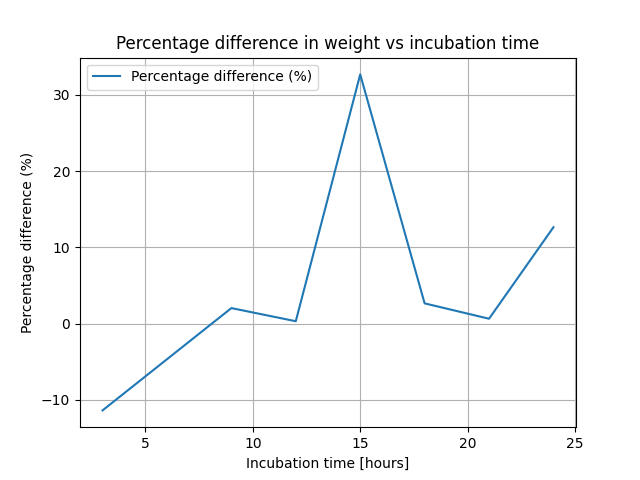
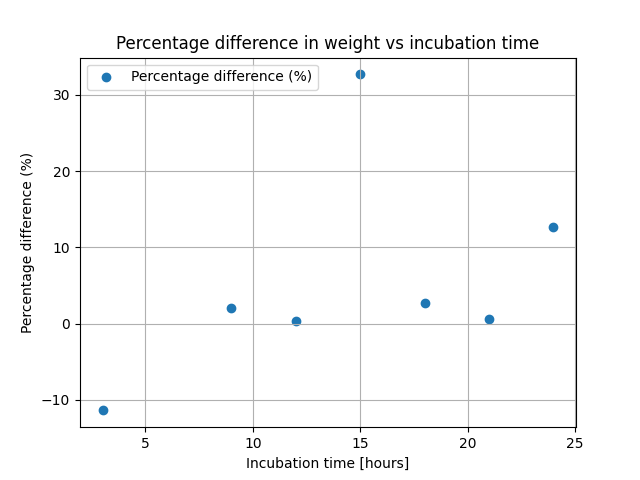
Adjusted deposition

diff --git a/Deposition.py b/Deposition.py
@@ -32,7 +32,7 @@ for i in range(len(time)):
 print(difference)
 
 plt.figure()
-plt.plot(time, difference, label='Percentage difference (%)')
+plt.scatter(time, difference, label='Percentage difference (%)')
 plt.xlabel('Incubation time [hours]')
 plt.ylabel('Percentage difference (%)')
 plt.title('Percentage difference in weight vs incubation time')
@@ -57,6 +57,7 @@ H = 1.0080 #u
 
 CaCl2= Ca + 2*Cl
 MgCl2= Mg + 2*Cl
+MgCO3 = Mg + C + 3*O
 CONH2= C+O+(N+2*H)*2
 
 #Weight of ions 
@@ -77,12 +78,20 @@ Mg_i= MagnesiumChloride/MgCl2*Mg
 print('Weight of magnesium ions in magnesium chloride:')
 print(Mg_i)
 
-if urea/CONH2 < Ca_i/Ca:
-    print('Mass of calcium carbonate:')
-    print(urea/CONH2*100)
-else:
-    print('Mass of calcium carbonate:')
-    print(Ca_i/Ca*100)
+MgCO3_mass= (Mg_i/Mg)*MgCO3
 
+
+# if urea/CONH2 < Ca_i/Ca:
+#     print('Mass of calcium carbonate:')
+#     print(urea/CONH2*100)
+# else:
+#     print('Mass of calcium carbonate:')
+#     print(Ca_i/Ca*100)
+
+CaCO3_mass= (Ca_i/Ca)*100
+
+total_mass= MgCO3_mass+CaCO3_mass
+
+print(total_mass)
 
 #ask deniz for the deposition rate
